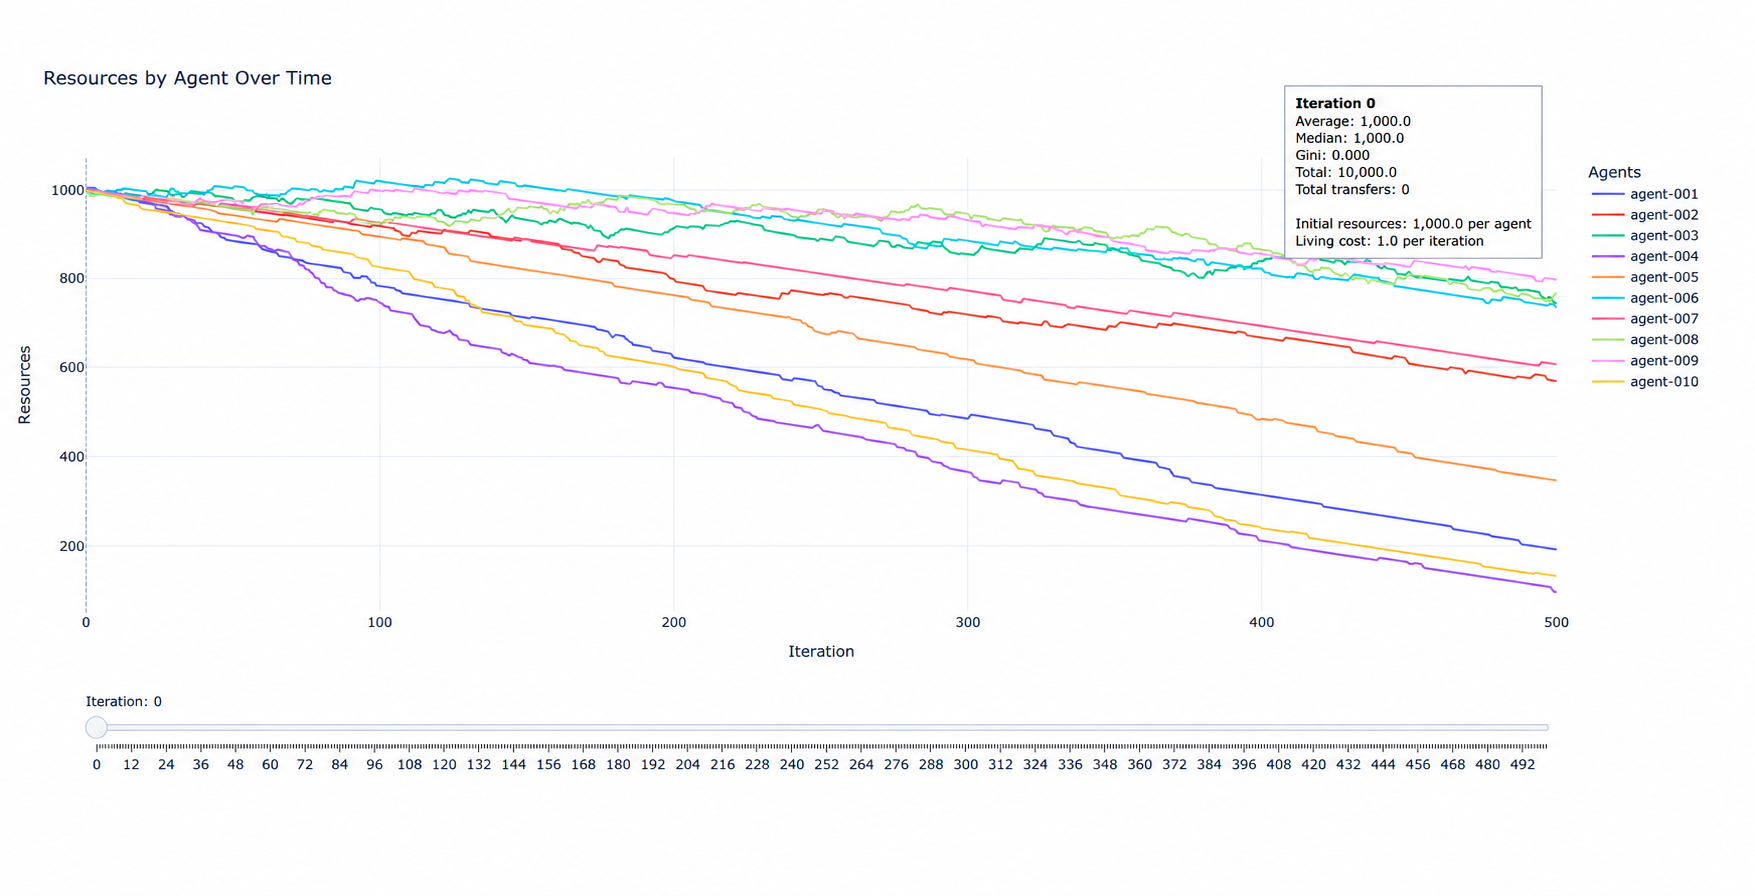
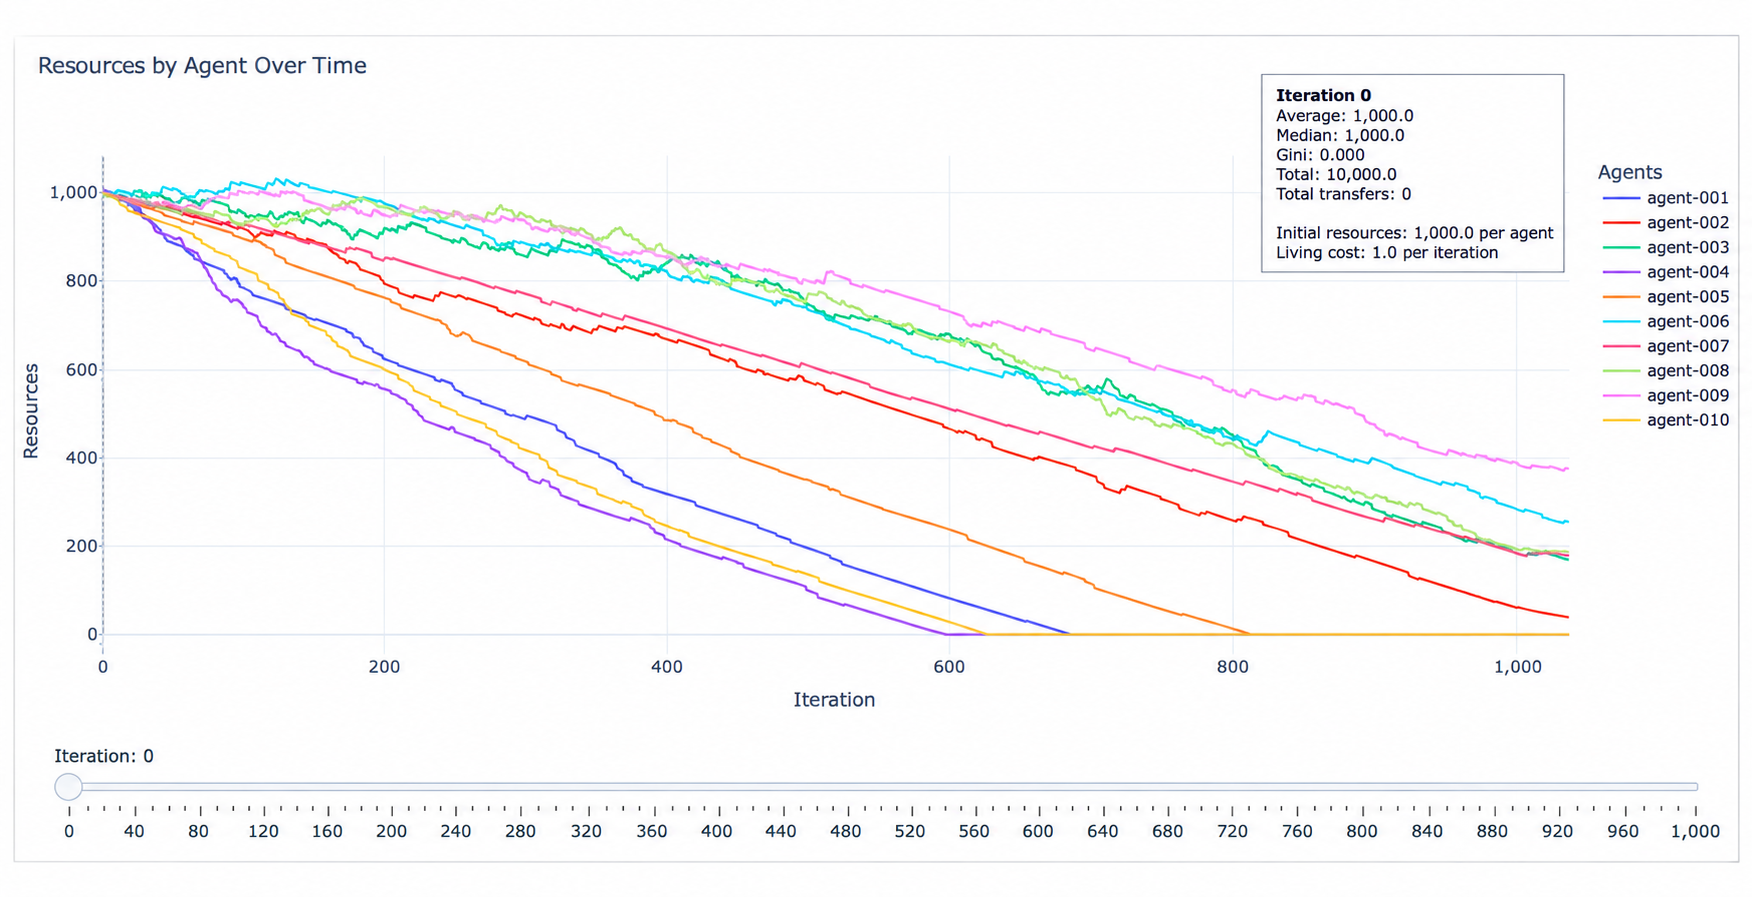
docs: update screenshot to 1000 iterations

diff --git a/README.md b/README.md
@@ -2,7 +2,7 @@
 
 ![Simulation output after 500 iterations](docs/simulation-output.png)
 
-*Default configuration, 500 iterations. The interactive chart starts at iteration 0.*
+*Default configuration, 1,000 iterations. The interactive chart starts at iteration 0.*
 
 An experimental agent-based simulation of resource sharing and inequality.
 Agents have different generosity and acceptance tendencies. During each
